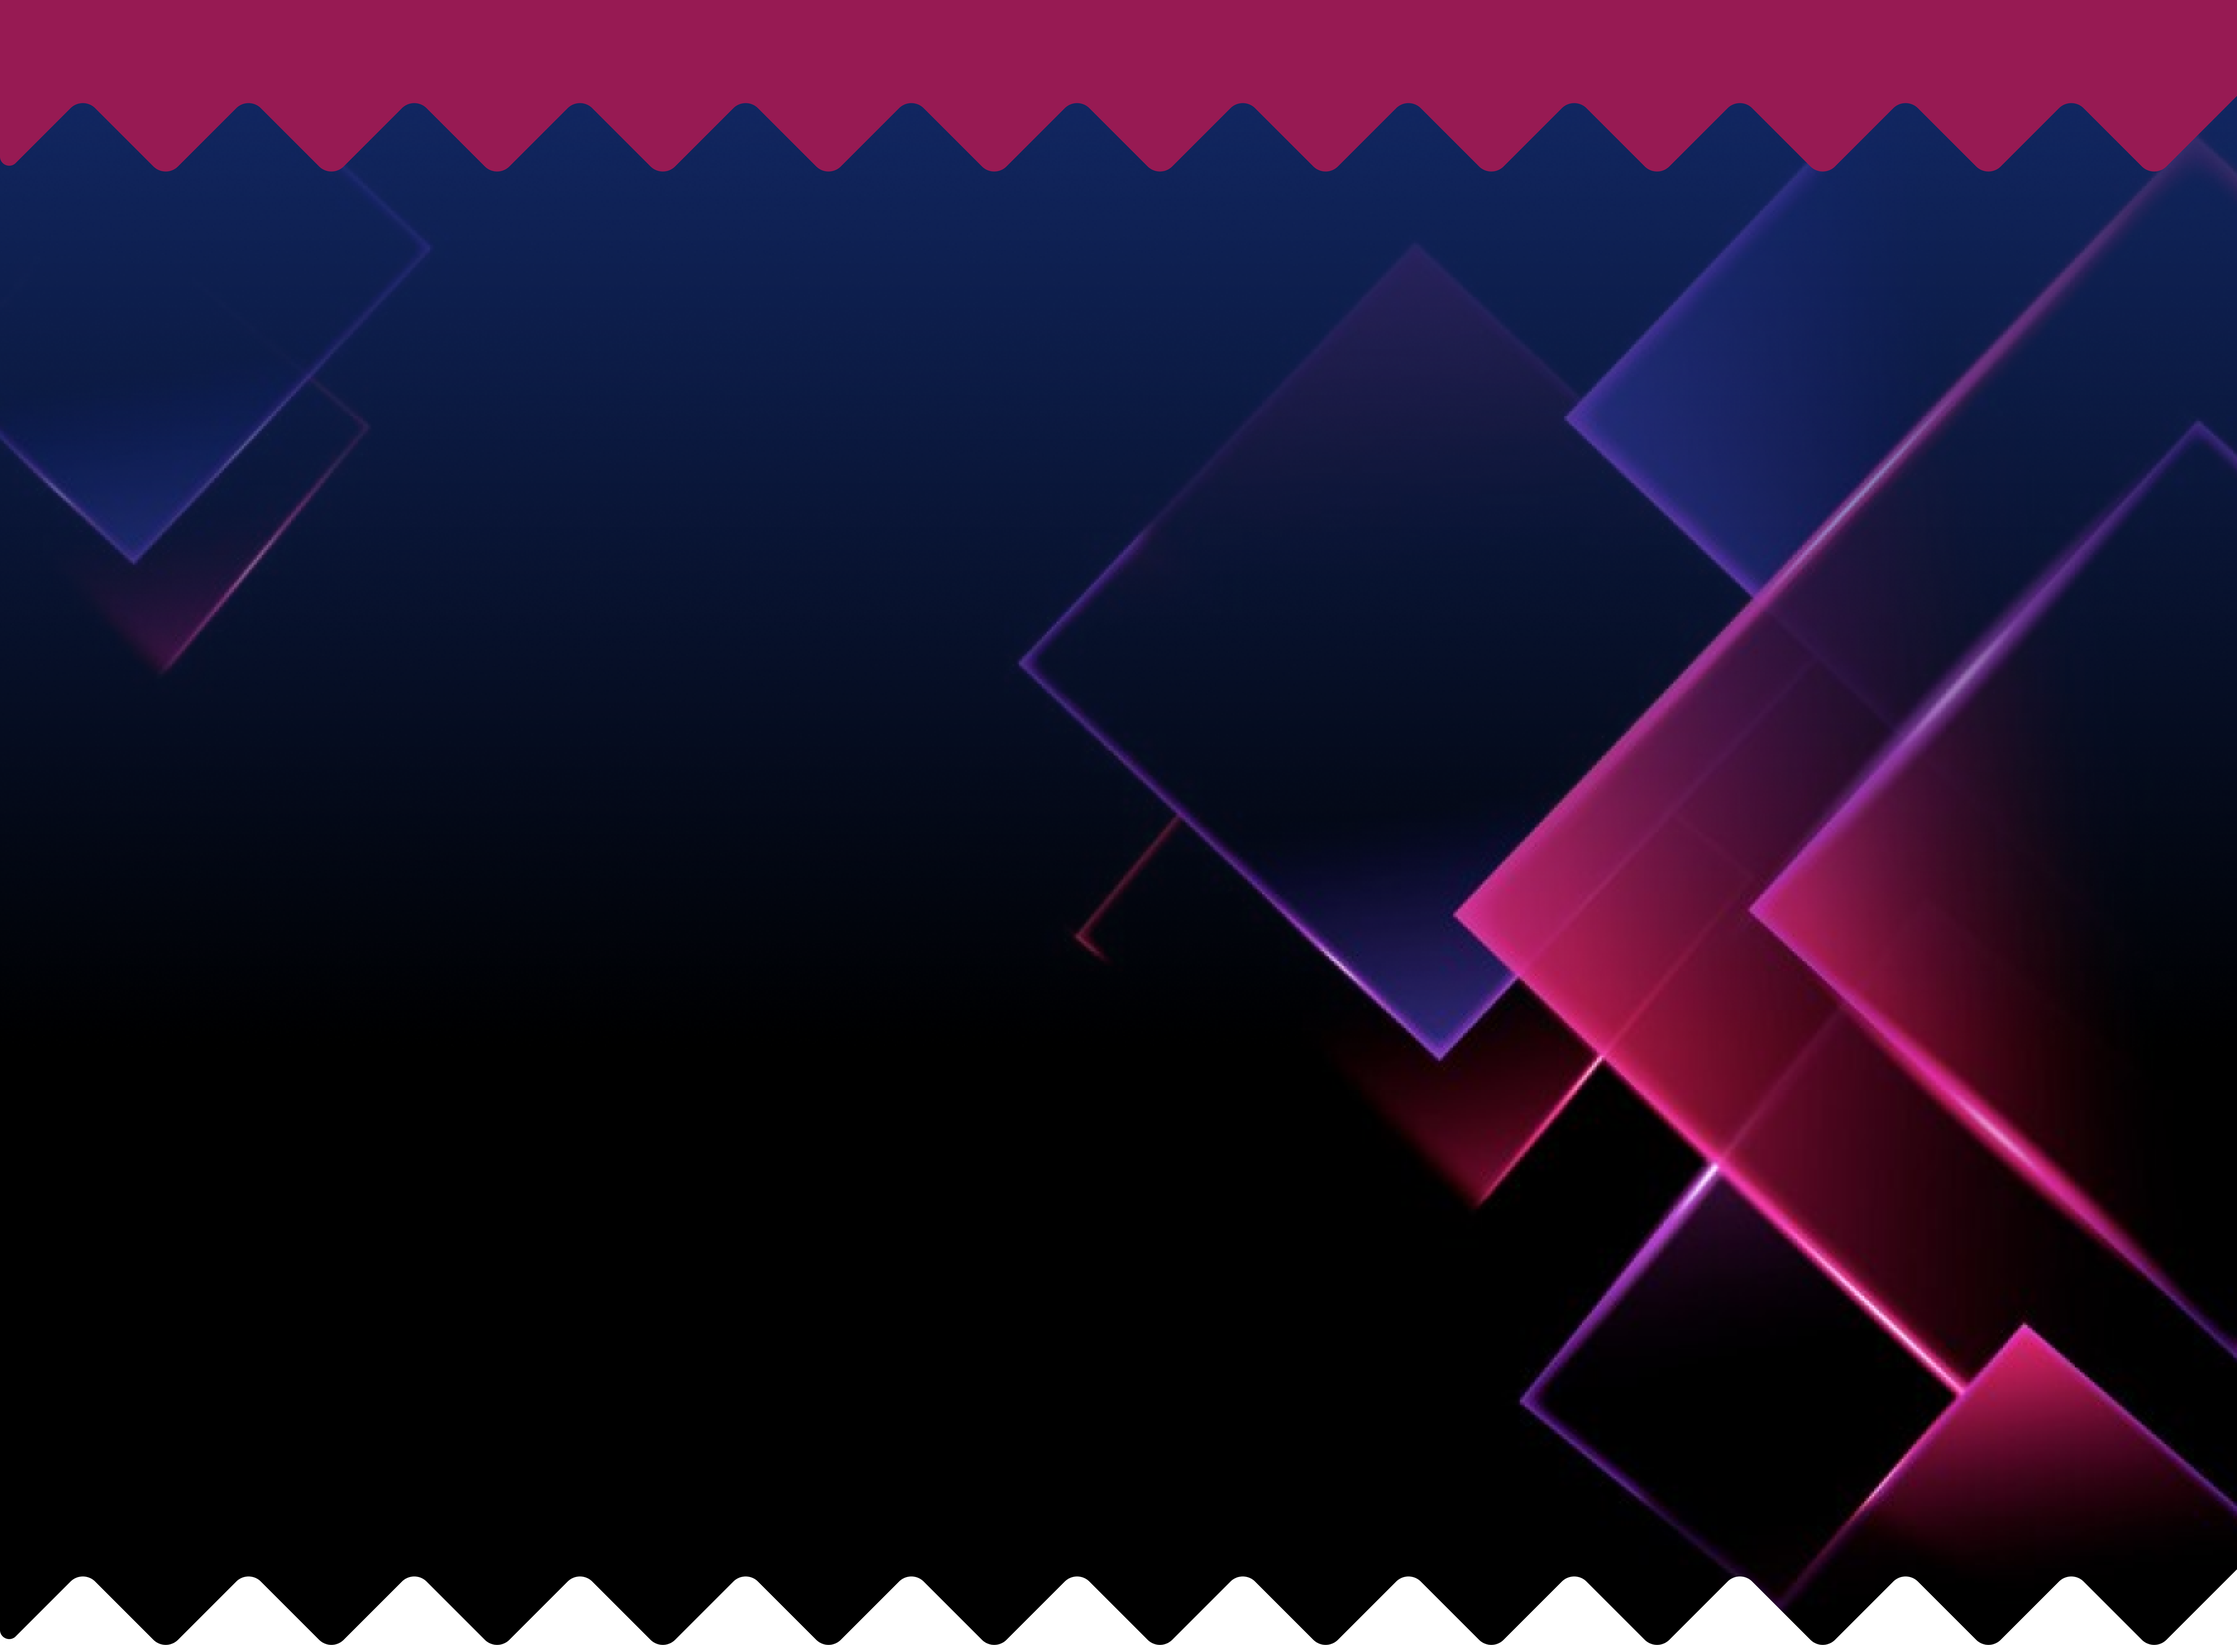
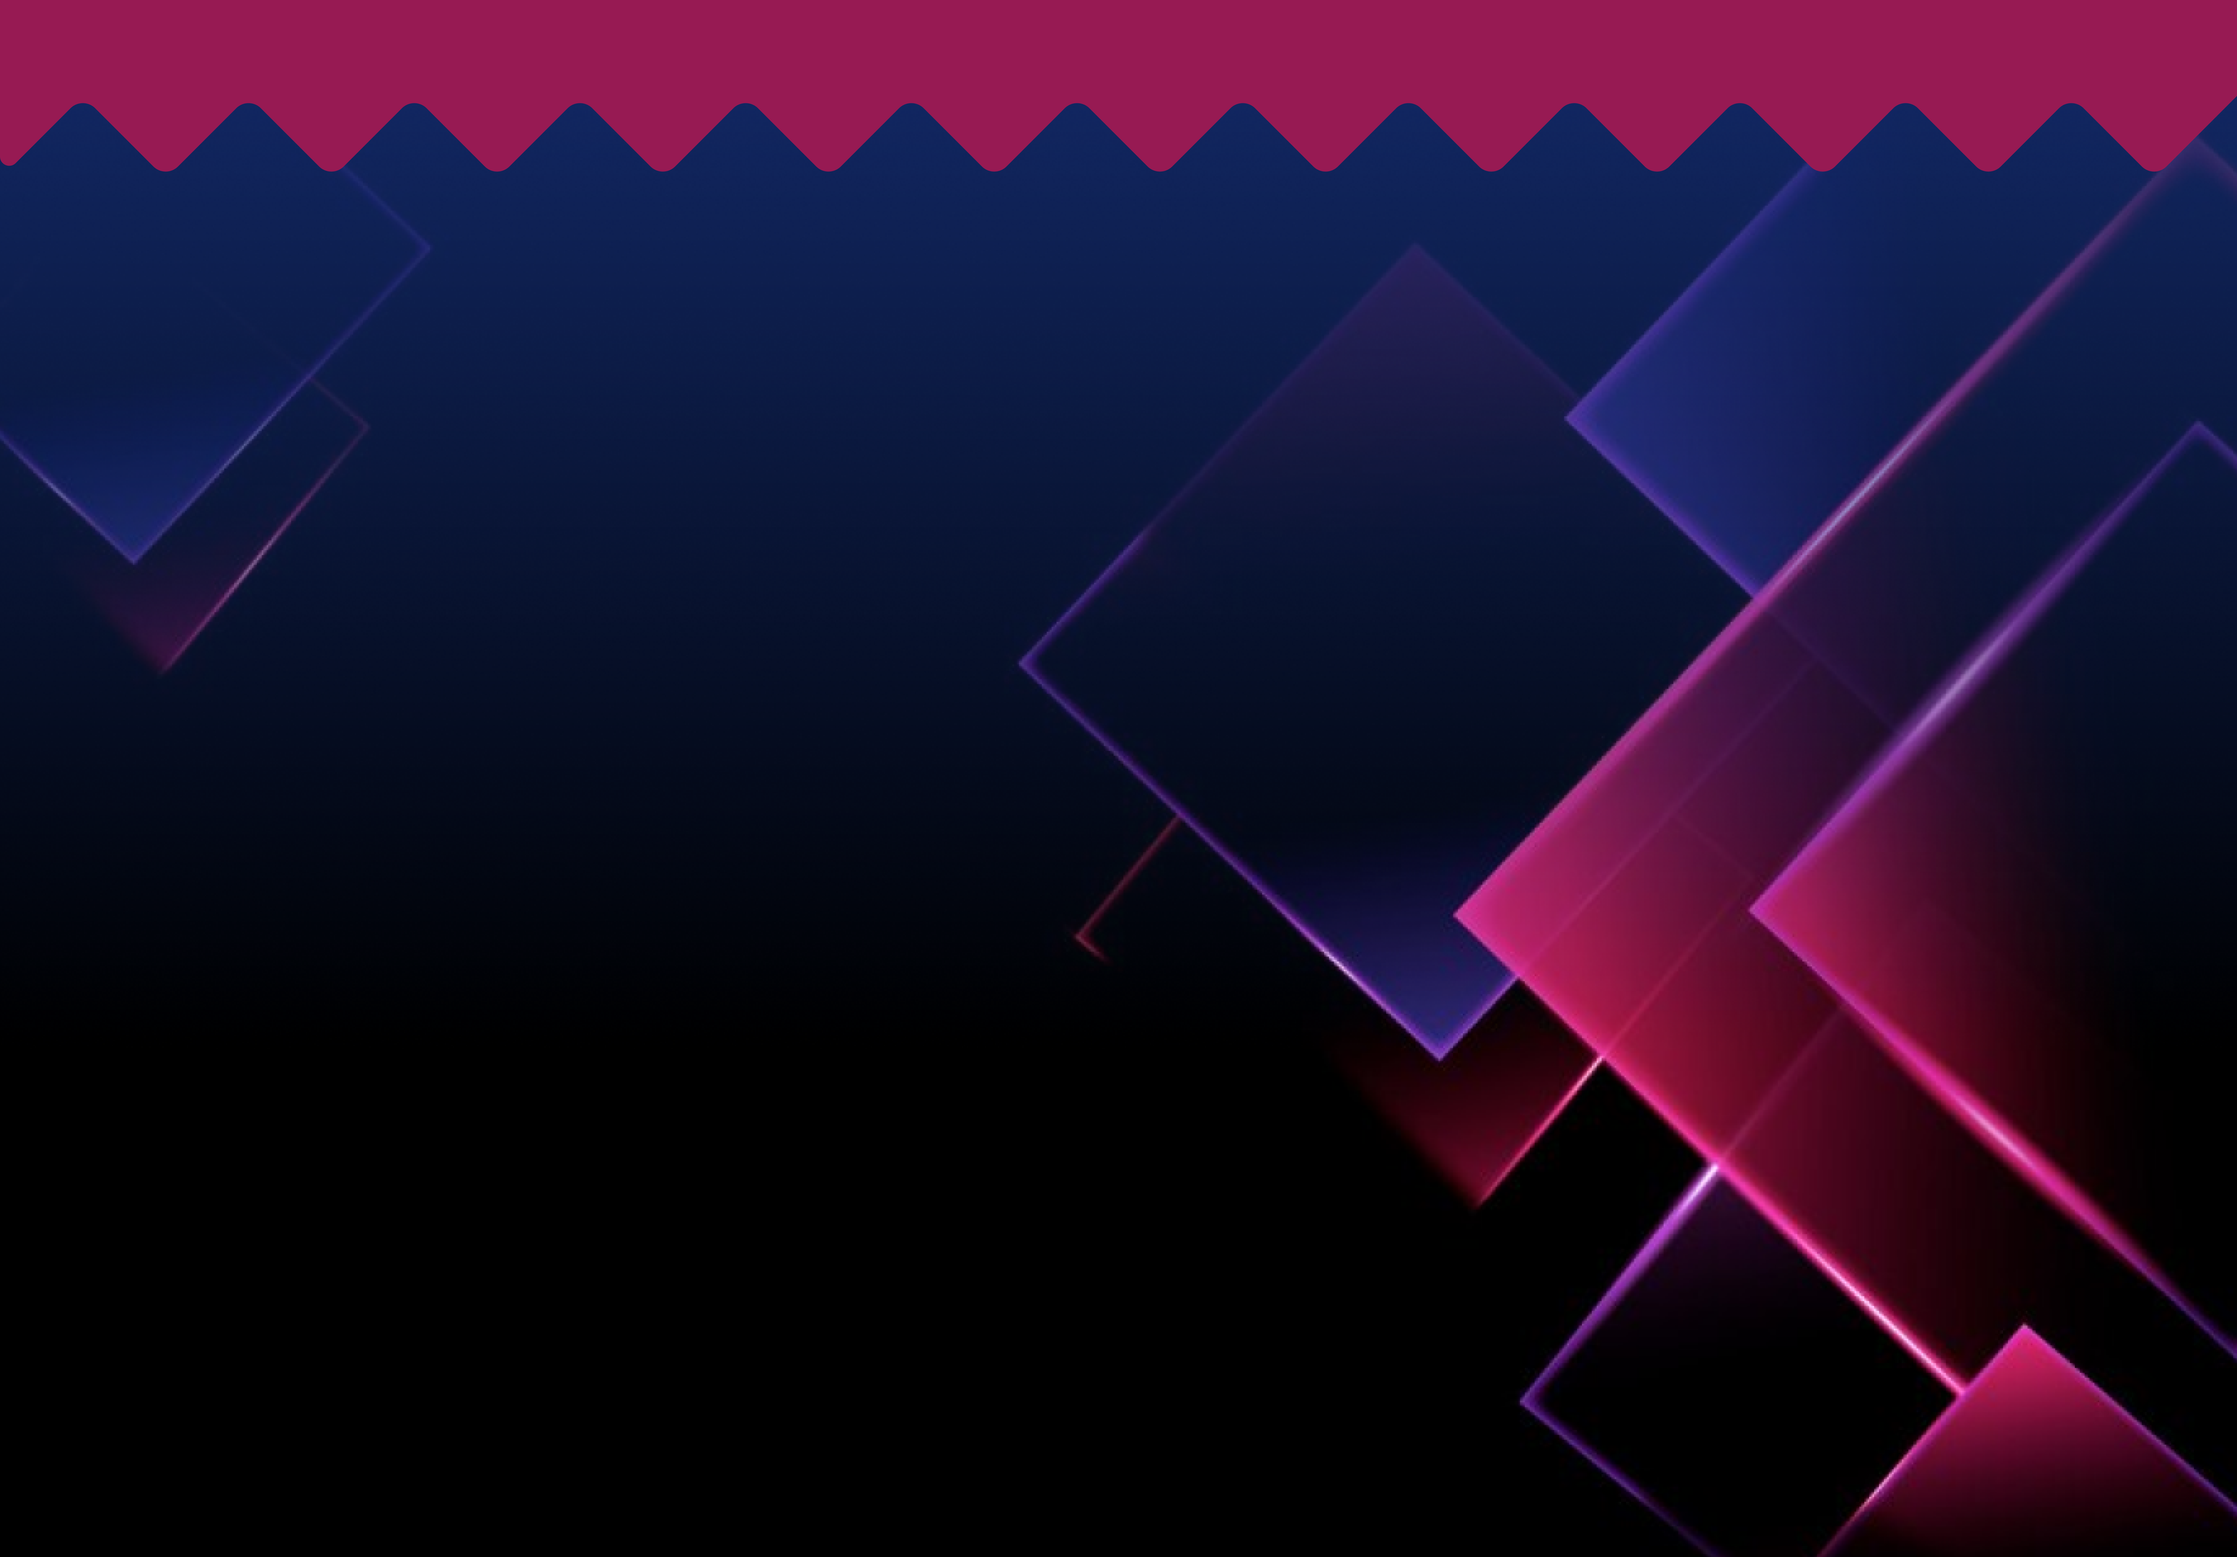
home page: stories section done]

diff --git a/src/components/home/HWesellStories.jsx b/src/components/home/HWesellStories.jsx
@@ -1,0 +1,119 @@
+import { Carousel } from "@material-tailwind/react";
+import bg from "../../assets/images/home/stories/bg.png";
+import person from "../../assets/images/home/stories/person.png";
+import { ANIMATED_IMAGES } from "../../utils/data/global";
+import {
+  I_HStories_Left_cot,
+  I_HStories_Right_cot,
+} from "../../utils/icons/homeIcons";
+
+const items = [
+  { id: 1, name: "Wesell stories", image: person },
+  { id: 2, name: "Wesell stories", image: person },
+  { id: 3, name: "Wesell stories", image: person },
+  { id: 4, name: "Wesell stories", image: person },
+];
+
+const HWesellStories = () => {
+  return (
+    <div
+      className="min-h-[800px] relative bottom-[200px] bg-cover"
+      style={{
+        backgroundImage: `url(${bg})`,
+        backgroundRepeat: "no-repeat",
+      }}
+    >
+      <div
+        className="w-full h-full bg-[length:164px_164px] md:bg-[length:379px_379px] pt-[150px] md:pt-[250px]"
+        style={{
+          backgroundImage: `url(${ANIMATED_IMAGES.LAMP}), url(${ANIMATED_IMAGES.LAMP})`,
+          backgroundRepeat: "no-repeat",
+          backgroundPosition: "bottom left, top right",
+        }}
+      >
+        <div className="pb-[78px]">
+          <Carousel
+            autoplay={true}
+            loop={true}
+            nextArrow={() => {}}
+            prevArrow={() => {}}
+            navigation={({ setActiveIndex, activeIndex, length }) => (
+              <div className="absolute bottom-4 left-2/4 z-50 flex -translate-x-2/4 gap-2">
+                {new Array(length).fill("").map((_, i) => (
+                  <button
+                    key={i}
+                    className={`block h-[14px] w-[14px] rounded-full transition-all ${
+                      activeIndex === i
+                        ? "bg-primary"
+                        : "bg-transparent border-[1px] border-primary"
+                    }`}
+                    onClick={() => setActiveIndex(i)}
+                  />
+                ))}
+              </div>
+            )}
+            className=""
+          >
+            {items.map((item, index) => (
+              <div
+                key={index}
+                className="relative h-full w-full container !mb-[100px]"
+              >
+                <img
+                  src={item.image}
+                  alt=""
+                  className="w-[124px] md:w-[222px] h-[124px] md:h-[222px] rounded-full object-cover mx-auto"
+                />
+                <h1 className="text-[16px] md:text-[21.25px] text-primary text-center leading-[32px] font-obviously-wide mt-[20px] md:mt-[52px]">
+                  Wesell stories
+                </h1>
+
+                <div className="flex justify-center items-start max-w-[700px] mx-auto gap-[10px] md:gap-[17px] mt-[31px]">
+                  {I_HStories_Left_cot}
+                  <p className="text-white md:text-[#C1C1C1] text-[16.667px] md:text-[32px] font-italic font-bold text-center font-obviously-wide">
+                    Lorem ipsum dolor sit amet consectetur. Augue nisi neque
+                    senectus lectus.
+                  </p>
+                  {I_HStories_Right_cot}
+                </div>
+
+                <h1 className="text-[24px] text-[#F9F9F9] font-medium font-obviously-wide text-center leading-[24px] mt-[36px]">
+                  Bryce Wong
+                </h1>
+                <p className="text-[14px] text-[#F9F9F9] font-obviously-wide text-center leading-[16.8px] mt-[22px] md:mt-[36px] max-w-[400px] mx-auto">
+                  Nunc mi id cursus facilisis praesent quam adipiscing.
+                </p>
+              </div>
+            ))}
+          </Carousel>
+        </div>
+      </div>
+      <div className="w-full md:flex justify-center gap-[22px] container !mt-[78px] hidden md:inline-block">
+        <div className="max-w-[579px] w-full bg-primary rounded-[28px] p-[7px] pb-[16px]">
+          <div className="w-full h-full bg-[#F9F9F9] rounded-[28px] pt-[77px] pb-[60px] px-[44px]">
+            <h1 className="text-cmn text-[#1D1D1D] text-[24px] font-medium uppercase">
+              WeSell Watch
+            </h1>
+            <p className="text-cmn text-[#1D1D1D] text-[20px] leading-normal capitalize mt-[23px]">
+              Symbolize your self-discipline and personal responsibility with
+              our signature old-school Timex digital watch.
+            </p>
+          </div>
+        </div>
+        <div className="max-w-[579px] w-full bg-primary rounded-[28px] p-[7px] pb-[16px]">
+          <div className="w-full h-full bg-[#F9F9F9] rounded-[28px] pt-[77px] pb-[60px] px-[44px]">
+            <h1 className="text-cmn text-[#1D1D1D] text-[24px] font-medium uppercase">
+              WeSell Wristband
+            </h1>
+            <p className="text-cmn text-[#1D1D1D] text-[20px] leading-normal capitalize mt-[23px]">
+              Represent teamwork and collaboration with a wristband that evolves
+              as you achieve greater levels of success.
+            </p>
+          </div>
+        </div>
+      </div>
+    </div>
+  );
+};
+
+export default HWesellStories;

diff --git a/src/utils/icons/homeIcons.jsx b/src/utils/icons/homeIcons.jsx
@@ -270,3 +270,47 @@ export const IHB_3 = (
     />
   </svg>
 );
+
+export const I_HStories_Left_cot = (
+  <svg
+    xmlns="http://www.w3.org/2000/svg"
+    width="31"
+    height="21"
+    viewBox="0 0 31 21"
+    fill="none"
+  >
+    <g clipPath="url(#clip0_1_21506)">
+      <path
+        d="M27.1904 20.5359C25.4144 20.3919 23.2064 20.2959 20.9504 20.2959C18.9344 20.2959 16.9184 20.3919 15.0944 20.5359C17.0624 13.6719 20.2784 3.92789 21.3344 0.0878906C23.4944 0.663892 27.5263 1.76789 30.0704 2.24789C28.7264 7.52789 27.9104 14.7759 27.1904 20.5359ZM12.7904 20.5359C11.0144 20.3919 8.80634 20.2959 6.55034 20.2959C4.53434 20.2959 2.51834 20.3919 0.694336 20.5359C2.66234 13.6719 5.87834 3.92789 6.93434 0.0878906C9.09434 0.663892 13.1264 1.76789 15.6704 2.24789C14.3264 7.52789 13.5104 14.7759 12.7904 20.5359Z"
+        fill="#FCCF3D"
+      />
+    </g>
+    <defs>
+      <clipPath id="clip0_1_21506">
+        <rect width="31" height="21" fill="white" />
+      </clipPath>
+    </defs>
+  </svg>
+);
+
+export const I_HStories_Right_cot = (
+  <svg
+    xmlns="http://www.w3.org/2000/svg"
+    width="31"
+    height="21"
+    viewBox="0 0 31 21"
+    fill="none"
+  >
+    <g clipPath="url(#clip0_1_21509)">
+      <path
+        d="M3.80969 20.5359C5.58569 20.3919 7.79369 20.2959 10.0496 20.2959C12.0656 20.2959 14.0816 20.3919 15.9056 20.5359C13.9376 13.6719 10.7216 3.92789 9.66569 0.0878906C7.50569 0.663892 3.47369 1.76789 0.929688 2.24789C2.27369 7.52789 3.08969 14.7759 3.80969 20.5359ZM18.2096 20.5359C19.9856 20.3919 22.1936 20.2959 24.4496 20.2959C26.4656 20.2959 28.4816 20.3919 30.3056 20.5359C28.3376 13.6719 25.1216 3.92789 24.0656 0.0878906C21.9056 0.663892 17.8736 1.76789 15.3296 2.24789C16.6736 7.52789 17.4896 14.7759 18.2096 20.5359Z"
+        fill="#FCCF3D"
+      />
+    </g>
+    <defs>
+      <clipPath id="clip0_1_21509">
+        <rect width="31" height="21" fill="white" />
+      </clipPath>
+    </defs>
+  </svg>
+);

diff --git a/src/pages/Home/Home.jsx b/src/pages/Home/Home.jsx
@@ -4,6 +4,7 @@ import HEmpowering from "../../components/home/HEmpowering";
 import HFuture from "../../components/home/HFuture";
 import HOurPhilosophy from "../../components/home/HOurPhilosophy";
 import HSpecialPrograms from "../../components/home/HSpecialPrograms";
+import HWesellStories from "../../components/home/HWesellStories";
 
 const Home = () => {
   return (
@@ -14,6 +15,7 @@ const Home = () => {
       <HCareerOpportunities />
       <HOurPhilosophy />
       <HFuture />
+      <HWesellStories />
     </div>
   );
 };

diff --git a/src/components/home/HFuture.jsx b/src/components/home/HFuture.jsx
@@ -4,7 +4,7 @@ import { Button } from "@material-tailwind/react";
 
 const HFuture = () => {
   return (
-    <div className="bg-[#969292] bg-opacity-10 md:bg-[#000000] h-full min-h-[800px] relative bottom-[300px] pb-[100px]">
+    <div className="bg-[#969292] bg-opacity-10 md:bg-[#000000] h-full min-h-[800px] relative bottom-[200px] pb-[100px]">
       <div className="container">
         <div
           className="max-w-[874px] mx-auto pt-[53px] md:pt-[186px] bg-[length:300px] md:bg-[length:1000px]"

diff --git a/src/utils/data/global.js b/src/utils/data/global.js
@@ -1,5 +1,6 @@
 import infinity from "../../assets/images/global/animated/infinity.gif";
 import revealLoading from "../../assets/images/global/animated/revealLoading.gif";
+import lamp from "../../assets/images/global/animated/lamp.gif";
 
 export const HEADER_ROUTES = [
   { id: 0, name: "About Us", path: "/about-us" },
@@ -11,4 +12,5 @@ export const HEADER_ROUTES = [
 export const ANIMATED_IMAGES = {
   INFINITY: infinity,
   REVEAL_LOADING: revealLoading,
+  LAMP: lamp,
 };

diff --git a/src/components/home/HOurPhilosophy.jsx b/src/components/home/HOurPhilosophy.jsx
@@ -5,7 +5,7 @@ import animated from "../../assets/images/home/our-philosophy/img1.gif";
 const HOurPhilosophy = () => {
   return (
     <div
-      className="w-full min-h-[800px] relative bottom-[180px] pb-[300px]"
+      className="w-full min-h-[800px] relative bottom-[180px] pb-[300px] bg-[length:400px] md:bg-[length:100%]"
       style={{
         backgroundImage: `url(${bg})`,
         backgroundRepeat: "no-repeat",
